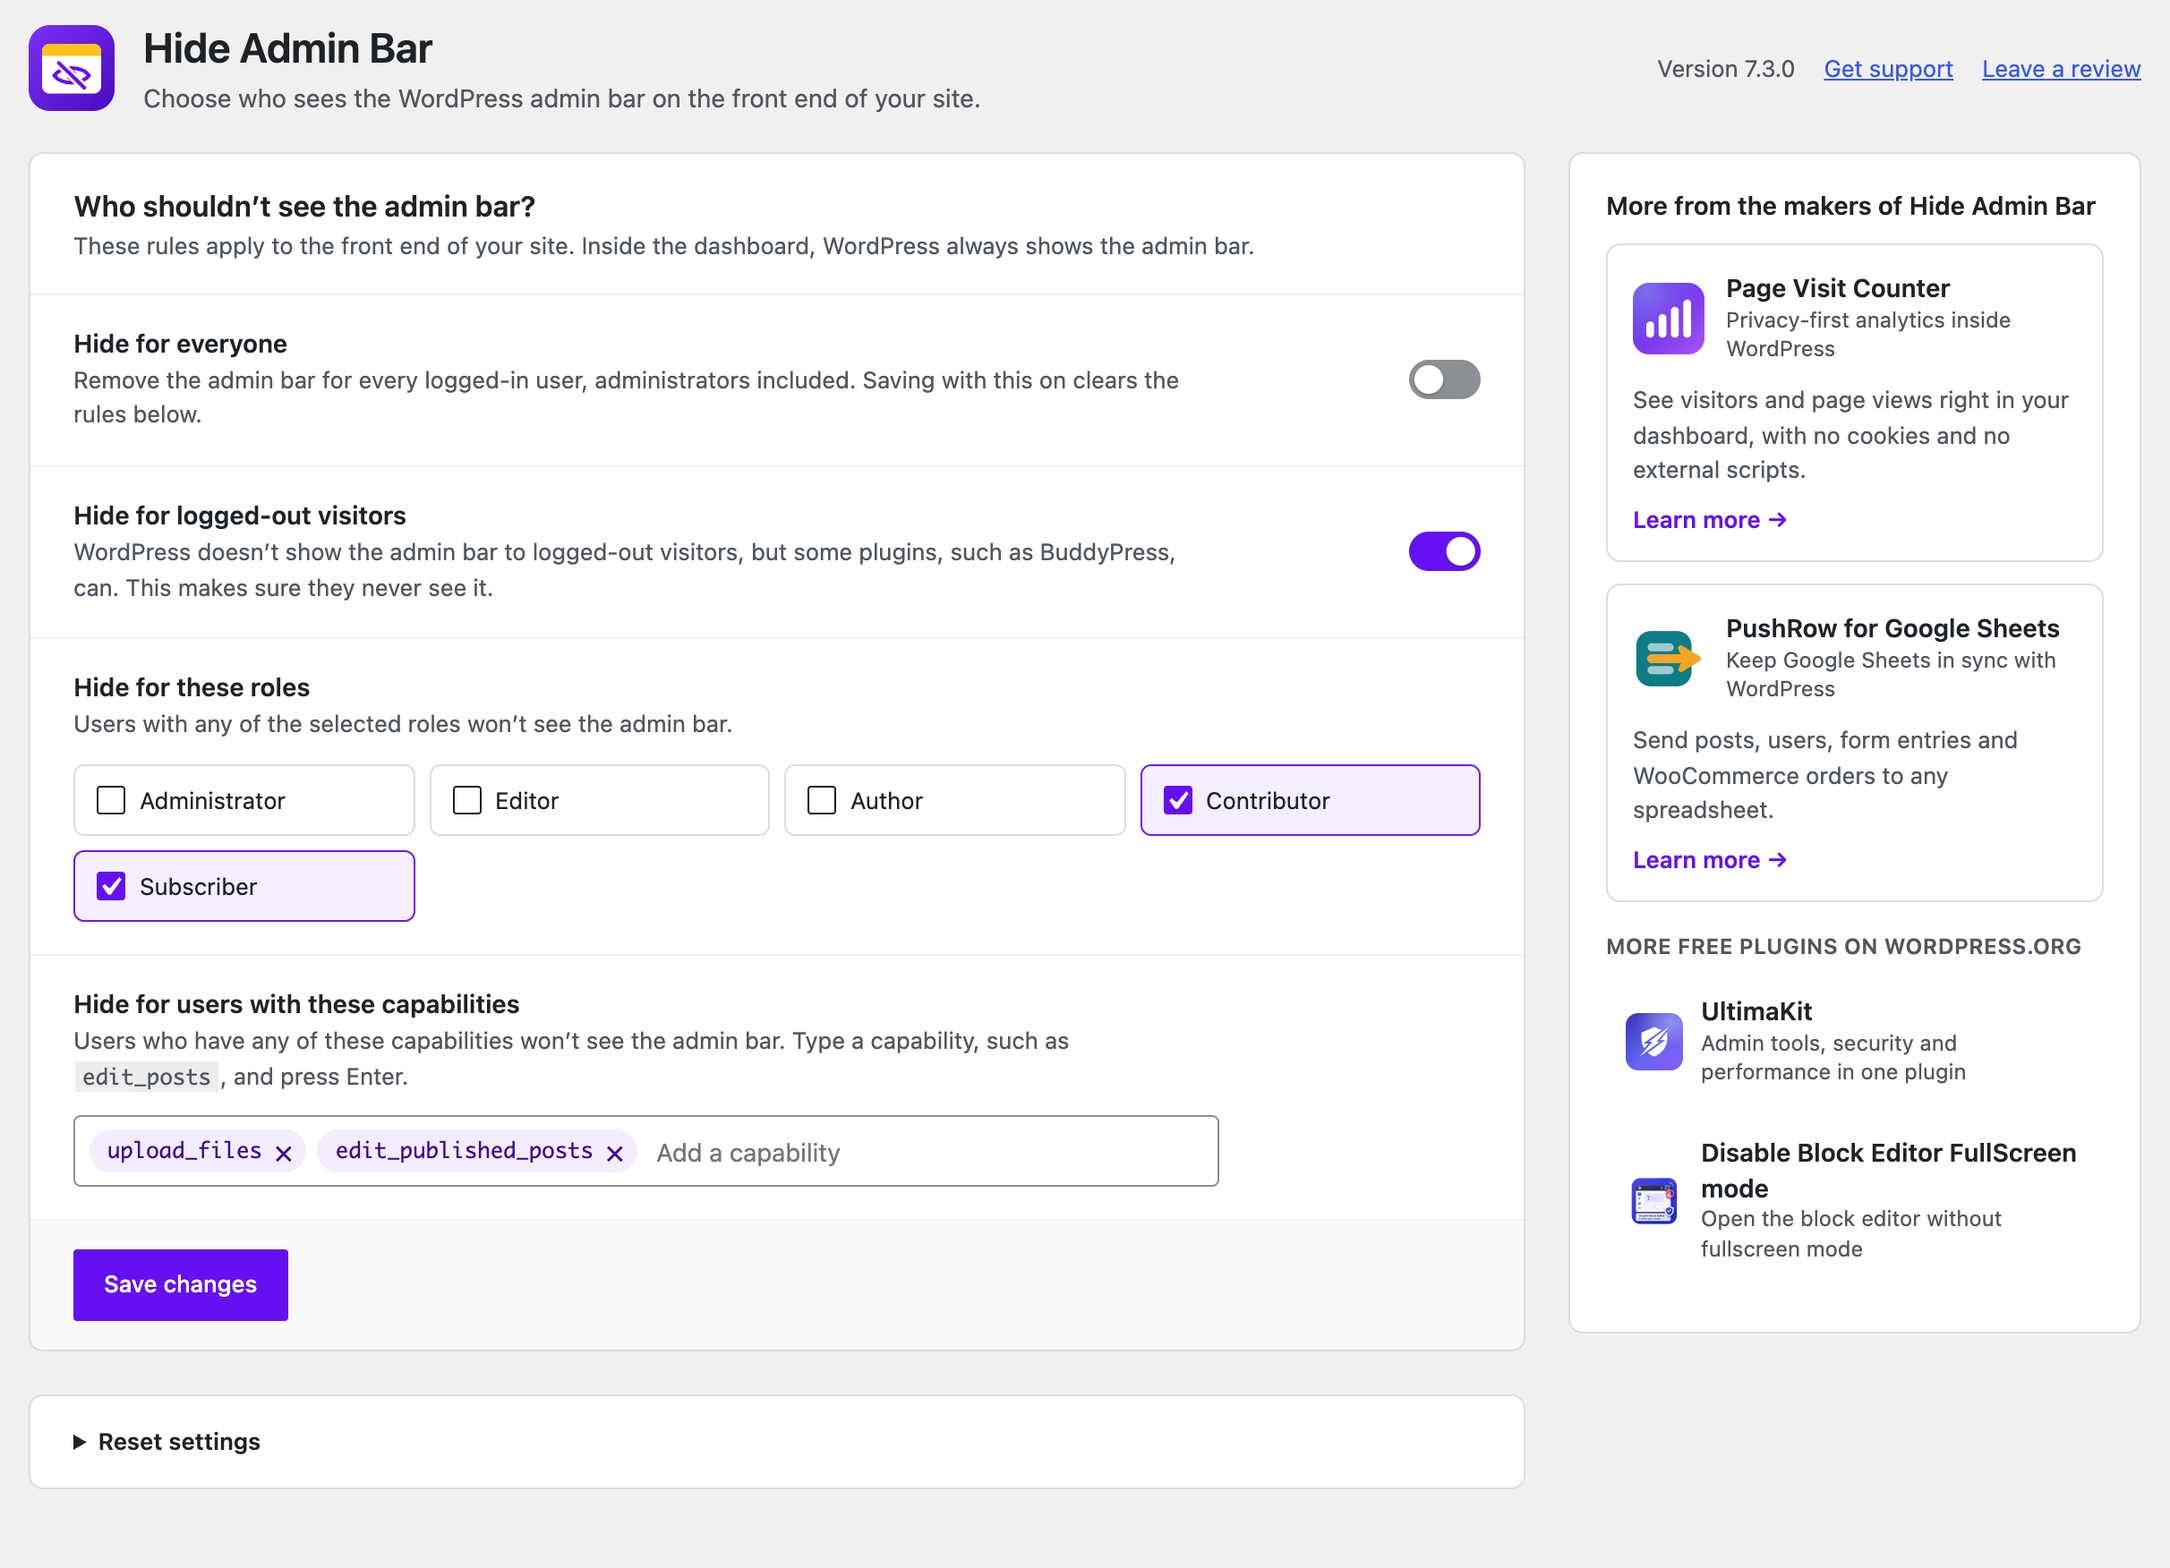
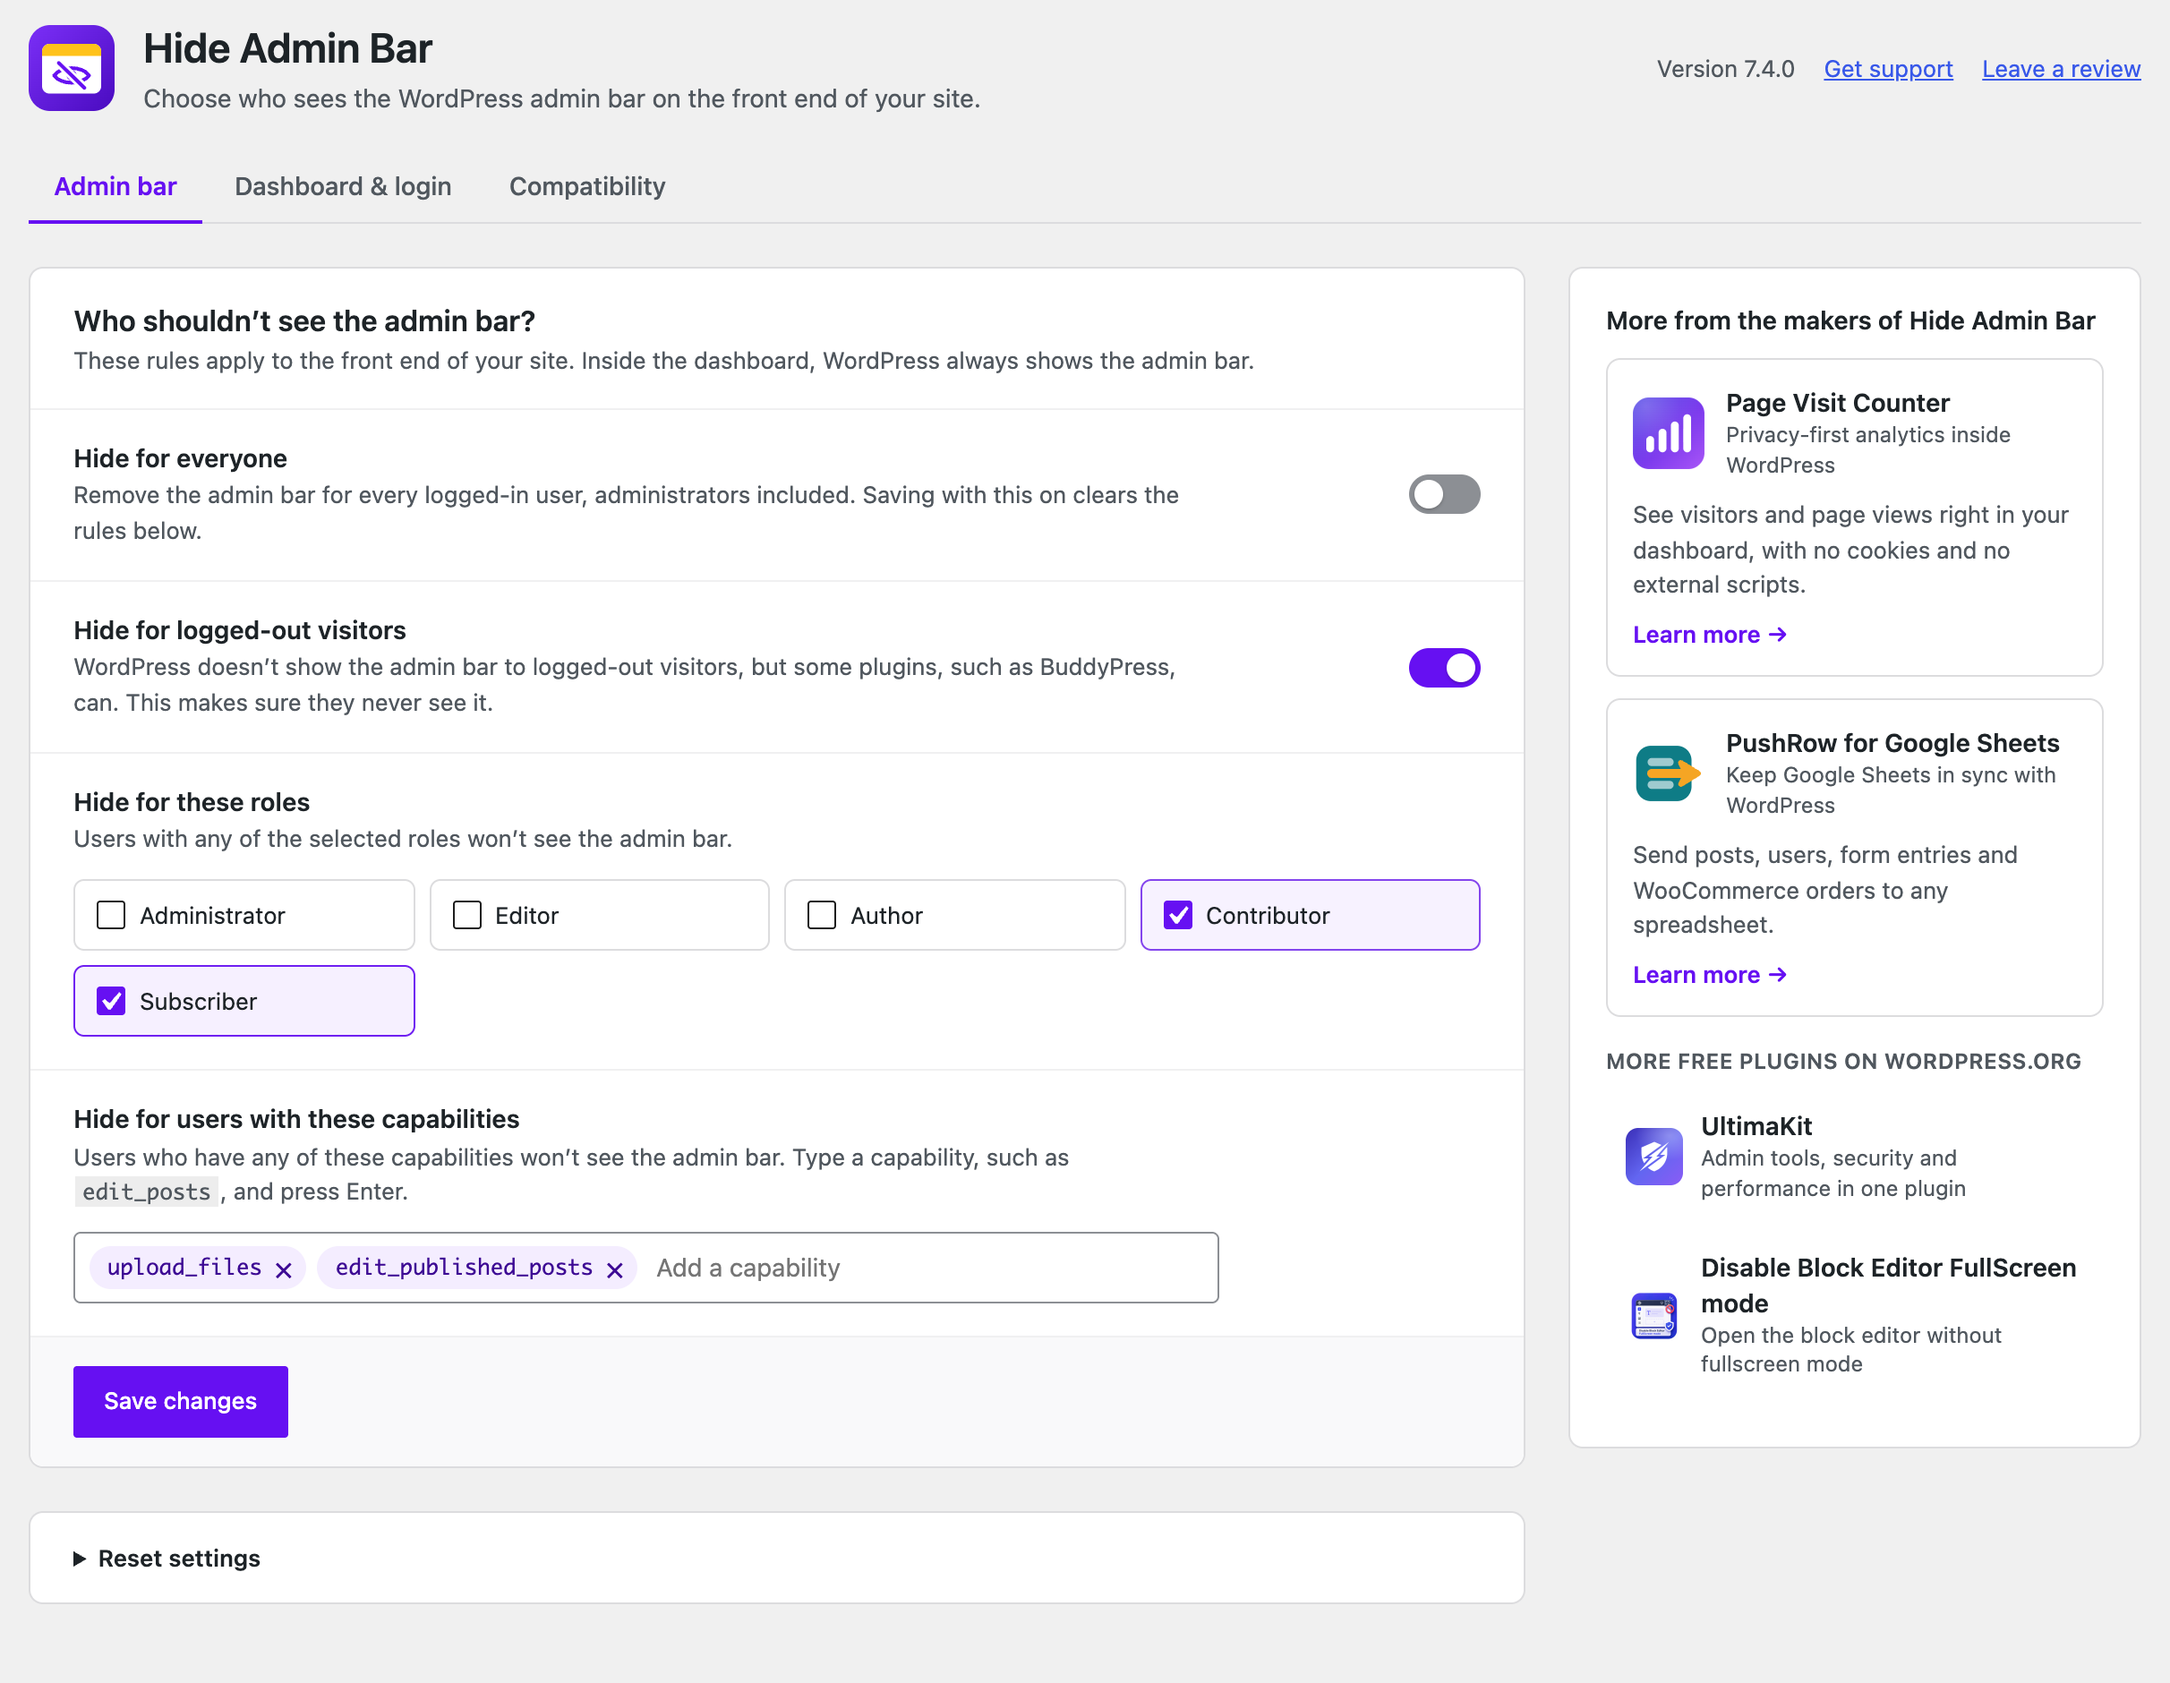
Prepare 7.4.0: version, readme, translation template, screenshots
- Version 7.4.0 in the plugin header, constant and Stable tag.
- Readme: the Dashboard & login features, an updated answer to "Does
  it hide the admin bar inside the dashboard too?", four new FAQs,
  changelog and upgrade notice.
- POT regenerated for the new strings.
- Screenshot 1 now shows the tabs; new screenshot 3 shows the
  Dashboard & login tab. The asset builder can render it.

diff --git a/hide-admin-bar-based-on-user-roles.php b/hide-admin-bar-based-on-user-roles.php
@@ -12,7 +12,7 @@
  * Plugin Name:       Hide Admin Bar Based on User Roles
  * Plugin URI:        https://wordpress.org/plugins/hide-admin-bar-based-on-user-roles/
  * Description:       Hide the WordPress Admin Bar for specific user roles, capabilities, or guests. Lightweight and works out of the box.
- * Version:           7.3.0
+ * Version:           7.4.0
  * Author:            WPAnkit
  * Author URI:        https://wpankit.com/
  * License:           GPL-2.0+
@@ -45,7 +45,7 @@ if ( ! defined( 'WPINC' ) ) {
  */
 // Use the existing version constant if the free plugin defined it first.
 if ( ! defined( 'HIDE_ADMIN_BAR_BASED_ON_USER_ROLES' ) ) {
-	define( 'HIDE_ADMIN_BAR_BASED_ON_USER_ROLES', '7.3.0' );
+	define( 'HIDE_ADMIN_BAR_BASED_ON_USER_ROLES', '7.4.0' );
 }
 if ( ! function_exists( 'habbourp_fs' ) ) {
 	// Create a helper function for easy SDK access.

diff --git a/tools/wporg-assets/README.md b/tools/wporg-assets/README.md
@@ -18,7 +18,7 @@ WordPress.org** does it between releases, so `.wordpress-org/` must hold only th
 | `banner-1544x500.png` | 1544x500 | High-DPI banner |
 | `icon.svg` | vector | Plugin icon, used where supported |
 | `icon-256x256.png`, `icon-128x128.png` | | Icon fallbacks (required with an SVG icon) |
-| `screenshot-1.png`, `screenshot-2.png` | | Screenshots; captions come from `== Screenshots ==` in `README.txt` |
+| `screenshot-1.png` to `screenshot-3.png` | | Screenshots; captions come from `== Screenshots ==` in `README.txt` |
 
 ## Regenerating
 
